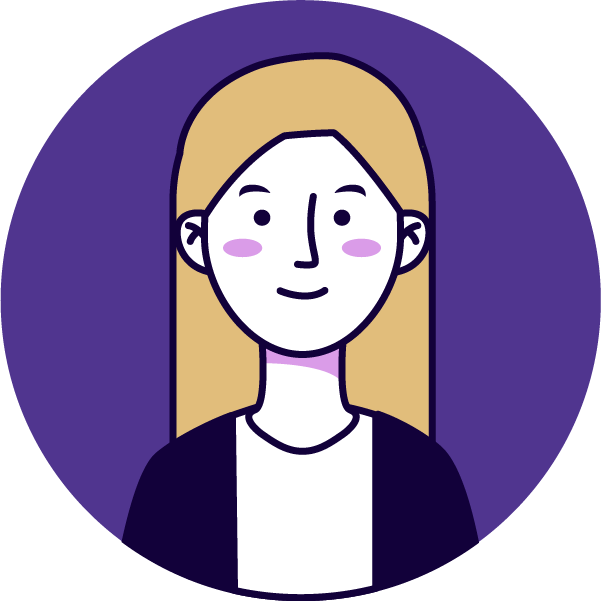
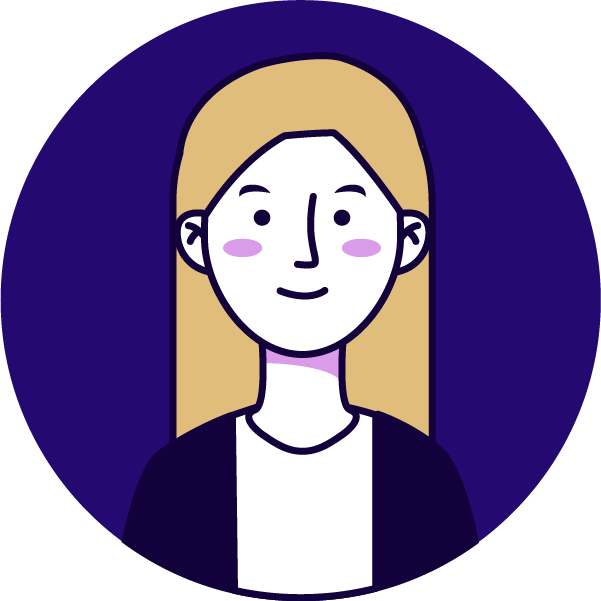
changes css and styling

diff --git a/client/src/pages/GamePage.js b/client/src/pages/GamePage.js
@@ -4,7 +4,9 @@ import { Button } from "react-bootstrap";
 import { useGameRoom } from "../contexts/GameRoomProvider";
 import PlayerOverview from "../components/PlayerOverview"
 import Timer from "../components/Timer";
+import { usePlayerInfo } from "../contexts/playerInfoProvider"
 
+// TODO: REMOVE GAME CREATOR FROM PLAYER LIST!
 // TODO: PlayerOverview
 // TODP: Rundenanzeige und -funktionalität
 // TODO: Runden-Timer (irgendwann im Waiting Room einstellbar)
@@ -13,8 +15,10 @@ export default function GamePage({ setGameReady }) {
   const MAX_ROUNDS = 3;
 
   const { players } = useGameRoom();
+  const { isCreator } = usePlayerInfo();
   const [currentPlayerIndex, setCurrentPlayerIndex] = useState(0);
   const [round, setRound] = useState(1);
+  const [roundStarted, setRoundStarted] = useState(false);
 
 
   const nextPlayer = () => {
@@ -34,9 +38,26 @@ export default function GamePage({ setGameReady }) {
   return (
     <div id="main-container">
       <div id="spaceship-container"></div>
+
       <div className="position-absolute top-0 start-0 m-3 text-light">Runde {round} / {MAX_ROUNDS}</div>
       <Button onClick={() => {setGameReady(false)}} className="position-absolute top-0 end-0 m-3"><i className="bi bi-box-arrow-left"></i></Button>
-      <Question nextPlayer={nextPlayer} currentPlayerName={players[currentPlayerIndex].name}/>
+
+      <div className="windowContent text-light">
+      { roundStarted ? 
+        <>
+          <Question nextPlayer={nextPlayer} currentPlayerName={players[currentPlayerIndex].name}/>
+        </>
+      :
+        <>
+        {isCreator ? 
+          <Button onClick={() => {setRoundStarted(true)}}>Runde starten</Button>
+        :
+          <p className="fs-3">Runde startet gleich...</p>
+        }
+        </>
+      }
+      </div>
+      
       {players && <PlayerOverview players={players} currentPlayer={players[currentPlayerIndex]}/>}
       <Timer />
     </div>

diff --git a/client/src/components/PlayerOverview.js b/client/src/components/PlayerOverview.js
@@ -12,10 +12,10 @@ export default function PlayerOverview({ players, currentPlayer }) {
         <div className="d-flex gap-5 justify-content-center align-items-center">
         {players.map(player => {
             return (
-                <div key={player.id} className={player.id === currentPlayer.id ? "text-primary text-center" : "text-center"}>
-                    <div >{player.name}</div>
-                    <div>{"♥ ".repeat(player.lives)}</div>
-                    <Image className={player.id === currentPlayer.id ? "border rounded-circle border-primary border-3" : ""} style={{width: "90px"}} src={Avatar1}/>
+                <div key={player.id} className="text-primary text-center">
+                    <Image className={player.id === currentPlayer.id ? "bordered-image mb-2" : "borderless-image mb-2"} src={Avatar1}/>
+                    {/*<div className="mt-2">{player.name}</div>*/}
+                    <div>{ Array.from(Array(player.lives), (x) => <i className="bi bi-heart-fill fs-6"> </i>) }</div>
                 </div>
             )
         })}

diff --git a/client/src/custom.scss b/client/src/custom.scss
@@ -2,7 +2,8 @@
 @import url("https://cdn.jsdelivr.net/npm/bootstrap-icons@1.11.3/font/bootstrap-icons.min.css");
 
 $body-font: "Nunito", sans-serif;
-$primary: #aa30da;
+$primary: #832ed3;
+$primary-dark: #5F0DC4;
 $success: #00AE64;
 
 // Import Bootstrap and its default variables
@@ -11,6 +12,10 @@ $success: #00AE64;
 body {
     font-family: $body-font;
     font-weight: normal;
+}
+
+.btn-danger, .btn-success {
+  color: white;
 }
 
 @keyframes moveBackground {
@@ -45,4 +50,27 @@ body {
   height: 100vh;
   overflow-x: hidden;
   z-index: -99999;
+}
+
+.windowContent {
+  display: flex;
+  flex-direction: column;
+  justify-content: center;
+  align-items: center;
+  height: 100vh;
+  width: 100vw;
+  text-align: center;
+  margin-top: -50px;
+}
+
+.borderless-image {
+  width: 120px;
+  border: 8px solid transparent;
+  border-radius: 60px;
+}
+
+.bordered-image {
+  @extend .borderless-image;
+  background:
+  linear-gradient(45deg, $primary, $primary-dark) border-box;
 }

diff --git a/client/src/pages/WaitingPage.js b/client/src/pages/WaitingPage.js
@@ -26,8 +26,8 @@ export default function WaitingPage({ setGameReady }) {
   // TODO: Show that successfully copied gameDomain
   return (
     <div id="main-container">
-      <Container style={{ height: "100vh", width: "50vw" }}>
-        <Form>
+      <Container className="d-flex flex-column justify-content-center align-items-center" style={{ height: "100vh", width: "50vw" }}>
+        <Form className="w-100">
           <Form.Group>
             <Form.Label>Link zum Beitreten:</Form.Label>
             <InputGroup className="mb-3">
@@ -49,7 +49,7 @@ export default function WaitingPage({ setGameReady }) {
             </InputGroup>
           </Form.Group>
         </Form>
-        <PlayerList />
+        <PlayerList/>
         <Button onClick={handleGameStart} className="mt-3">
           Spiel starten
         </Button>

diff --git a/client/src/components/Question.js b/client/src/components/Question.js
@@ -61,7 +61,7 @@ function handleNextQuestion() {
 }
 
   return (
-    <div className="position-absolute start-50 translate-middle-x text-light d-flex flex-column align-items-center text-center" style={isCreator ? {top: "30%"} : { top: "35%"}}>
+    <div className="d-flex flex-column align-items-center text-center" /*style={isCreator ? {top: "30%"} : { top: "35%"}}*/>
       <div className="fs-3 mb-3">{currentPlayerName},</div>
       {data.length > 0 && questionIndex < data.length && (<div className="fs-1 mb-3">{data[questionIndex].Frage}</div>) }
       

diff --git a/client/src/components/PlayerList.js b/client/src/components/PlayerList.js
@@ -18,13 +18,13 @@ export default function PlayerList() {
   }
 
   return (
-    <ListGroup>
+    <ListGroup className="w-100">
       {players.map((player) => {
         return (
           <ListGroup.Item key={player.id}>
             {player.name}
             {player.isCreator ? (
-              <Badge bg="primary" pill>
+              <Badge className="ms-2" bg="primary">
                 Ersteller
               </Badge>
             ) : (
